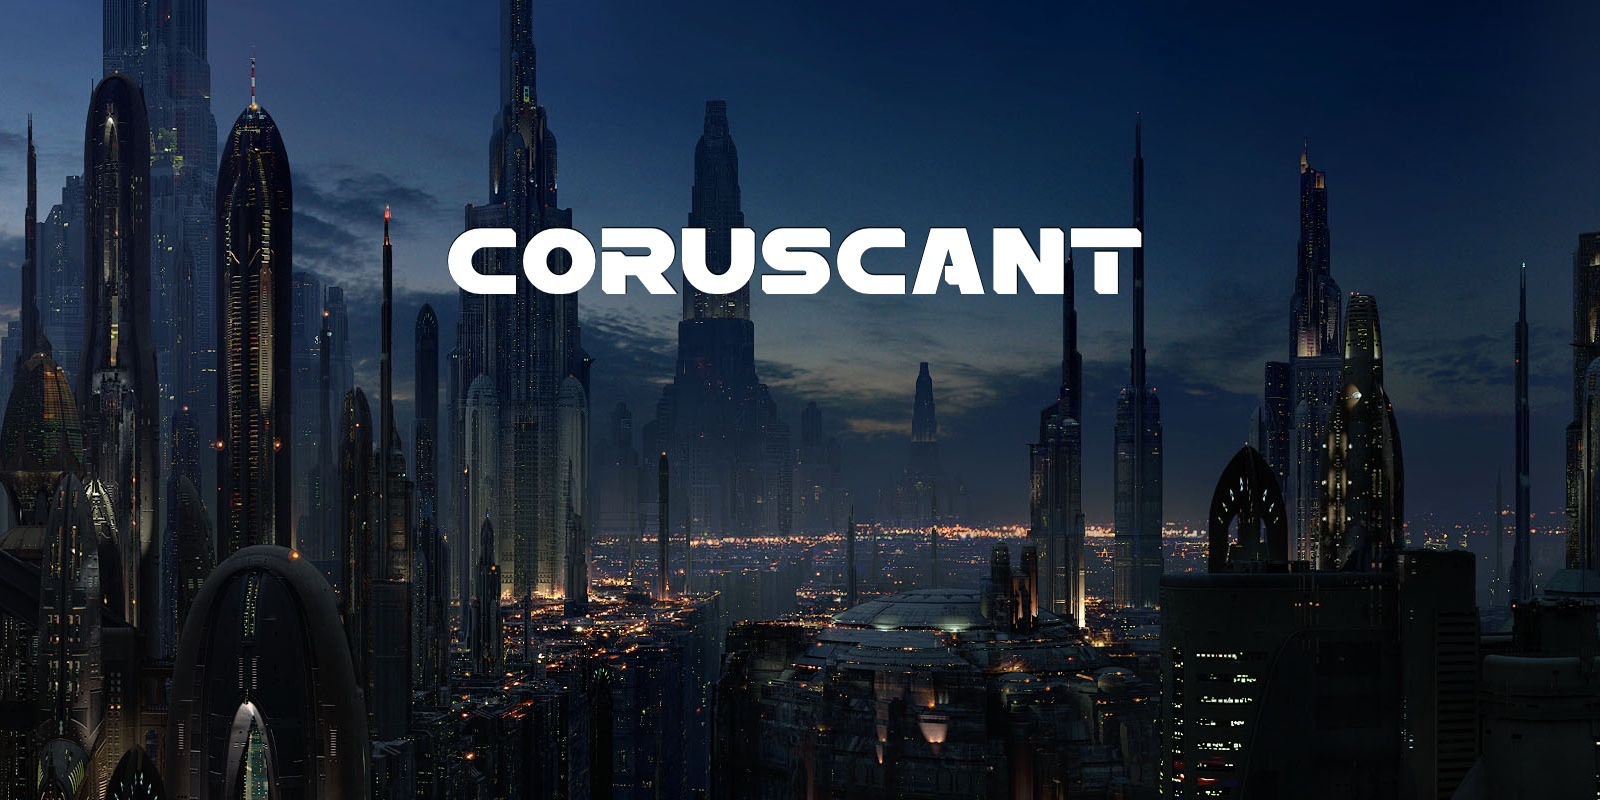
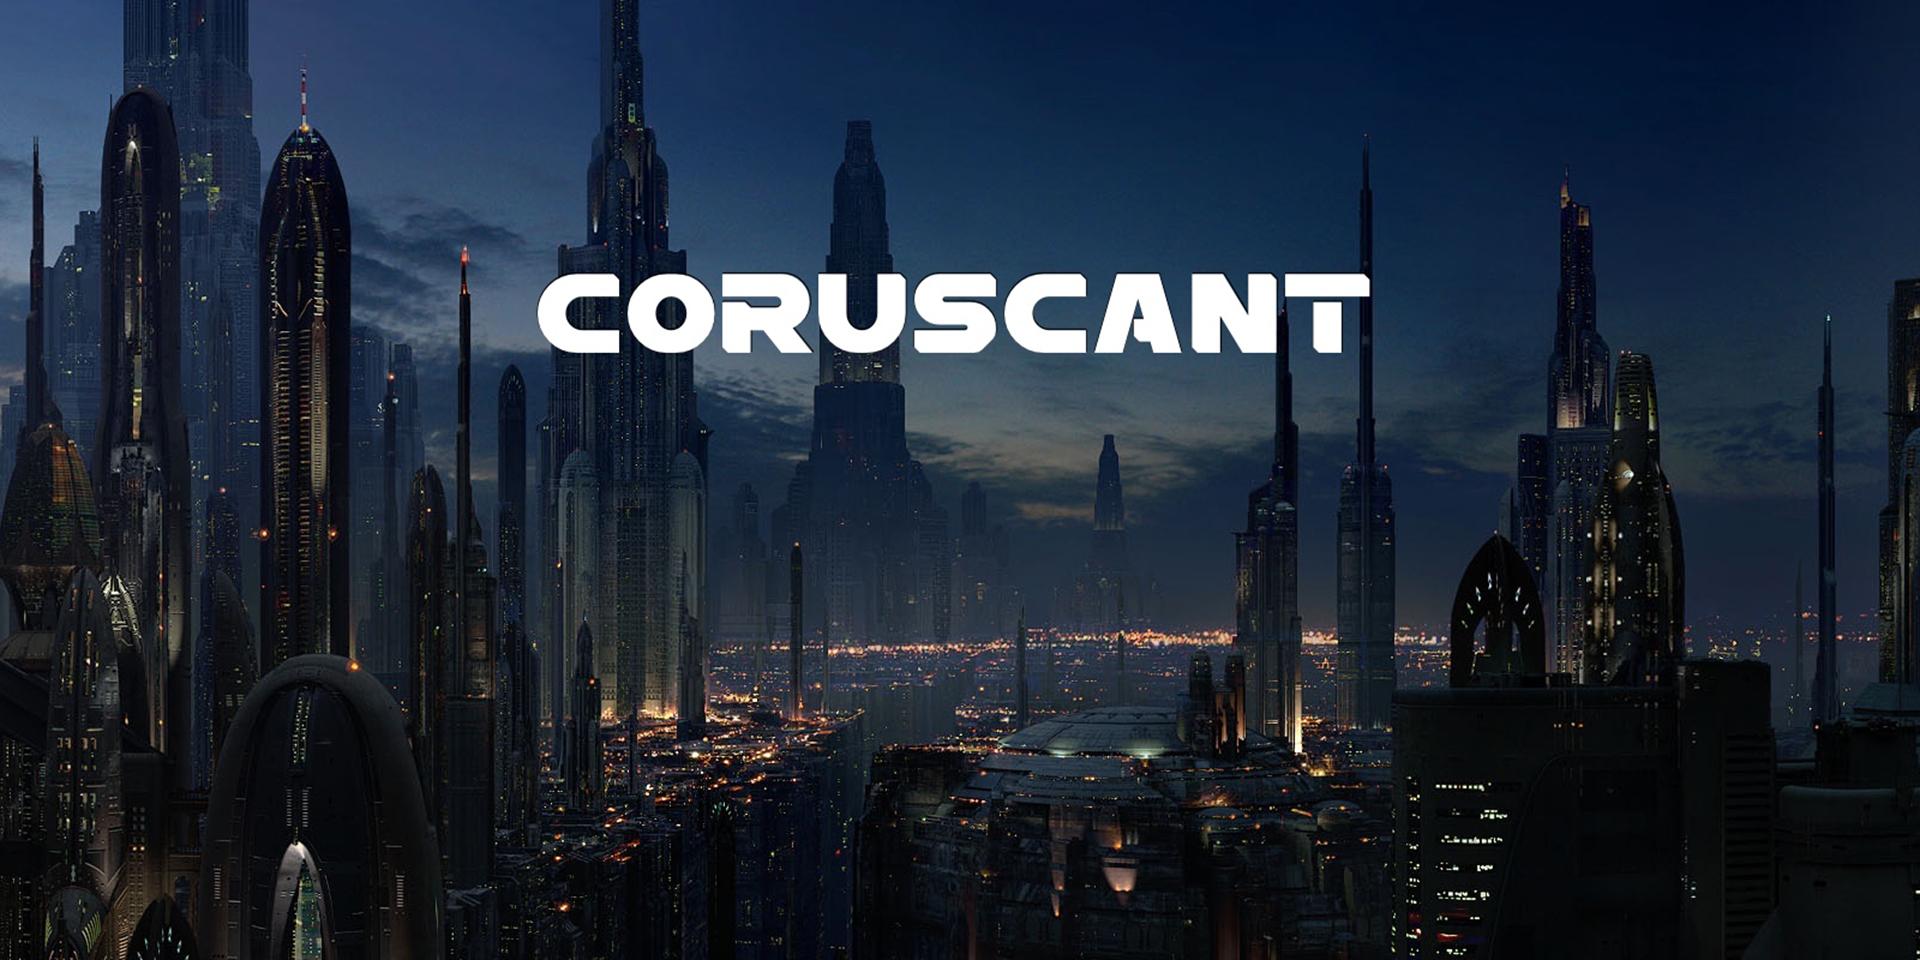
Updated images

diff --git a/index.html b/index.html
@@ -54,35 +54,35 @@
 
       <!-- Wrapper for slides -->
       <div class="carousel-inner" role="listbox">
-        <div class="item active">
+        <div class="item active text-center">
           <img src="img/coruscant-1.jpg" alt="img/coruscant-1.jpg">
           <div class="carousel-caption">
             <h2>Capital of the Galaxy</h2>
             <p><a href="#" class="btn btn-primary btn-lg">Secondary CTA</a>&nbsp;<a class="btn btn-success btn-lg" href="#" role="button">Learn more &raquo;</a></p>
           </div>
         </div>
-        <div class="item">
+        <div class="item text-center">
           <img src="img/endor-1.jpg" alt="img/coruscant-1.jpg">
           <div class="carousel-caption">
             <h2>Birthplace of the New Republic</h2>
             <p><a href="#" class="btn btn-primary btn-lg">Secondary CTA</a>&nbsp;<a class="btn btn-success btn-lg" href="#" role="button">Learn more &raquo;</a></p>
           </div>
         </div>
-        <div class="item">
-          <img src="img/bespin-1.png" alt="img/coruscant-1.jpg">
+        <div class="item text-center">
+          <img src="img/bespin-1.jpg" alt="img/coruscant-1.jpg">
           <div class="carousel-caption">
             <h2>Luxury in the clouds</h2>
             <p><a href="#" class="btn btn-primary btn-lg">Secondary CTA</a>&nbsp;<a class="btn btn-success btn-lg" href="#" role="button">Learn more &raquo;</a></p>
           </div>
         </div>
-        <div class="item">
+        <div class="item text-center">
           <img src="img/naboo-1.jpg" alt="img/coruscant-1.jpg">
           <div class="carousel-caption">
             <h2>Jewel of the former Empire</h2>
             <p><a href="#" class="btn btn-primary btn-lg">Secondary CTA</a>&nbsp;<a class="btn btn-success btn-lg" href="#" role="button">Learn more &raquo;</a></p>
           </div>
         </div>
-        <div class="item">
+        <div class="item text-center">
           <img src="img/corellia-1.jpg" alt="img/coruscant-1.jpg">
           <div class="carousel-caption">
             <h2>Homeworld of Heroes</h2>
@@ -184,7 +184,7 @@
         <p class="text-center">&copy; Kessel Runners GFFA Tours 2015</p>
       </footer>
     </div> <!-- /container -->
-    <script src="//ajax.googleapis.com/ajax/libs/jquery/1.11.2/jquery.min.js"></script>
+    <script src="https://ajax.googleapis.com/ajax/libs/jquery/1.11.2/jquery.min.js"></script>
     <script>window.jQuery || document.write('<script src="js/vendor/jquery-1.11.2.min.js"><\/script>')</script>
 
     <script src="js/vendor/bootstrap.min.js"></script>
@@ -202,7 +202,7 @@
         (function(b,o,i,l,e,r){b.GoogleAnalyticsObject=l;b[l]||(b[l]=
         function(){(b[l].q=b[l].q||[]).push(arguments)});b[l].l=+new Date;
         e=o.createElement(i);r=o.getElementsByTagName(i)[0];
-        e.src='//www.google-analytics.com/analytics.js';
+        e.src='https://www.google-analytics.com/analytics.js';
         r.parentNode.insertBefore(e,r)}(window,document,'script','ga'));
         ga('create','UA-XXXXX-X','auto');ga('send','pageview');
     </script>
